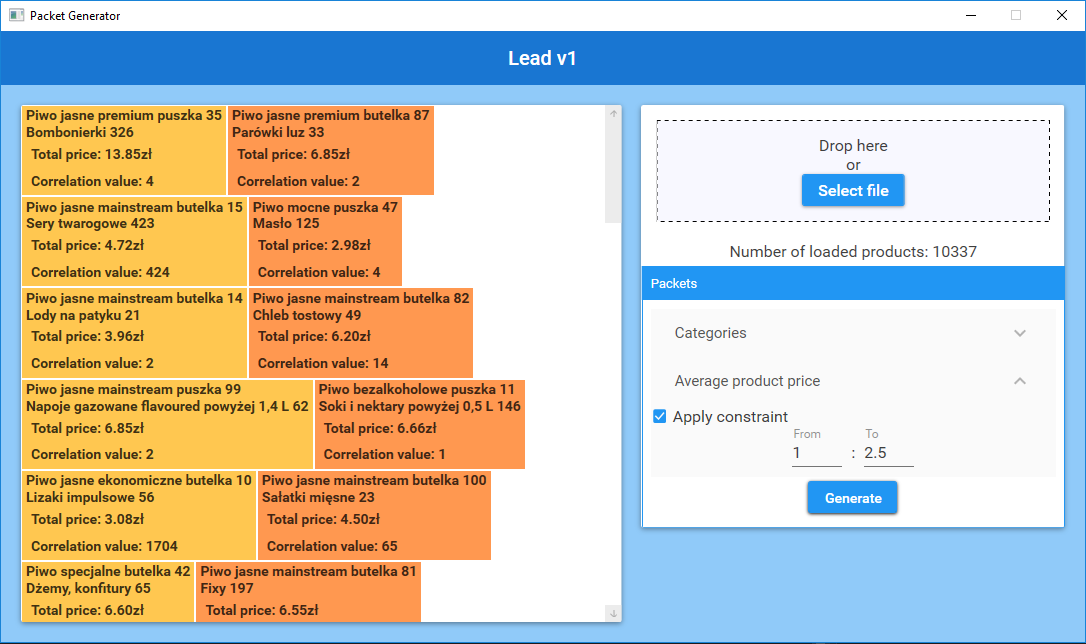
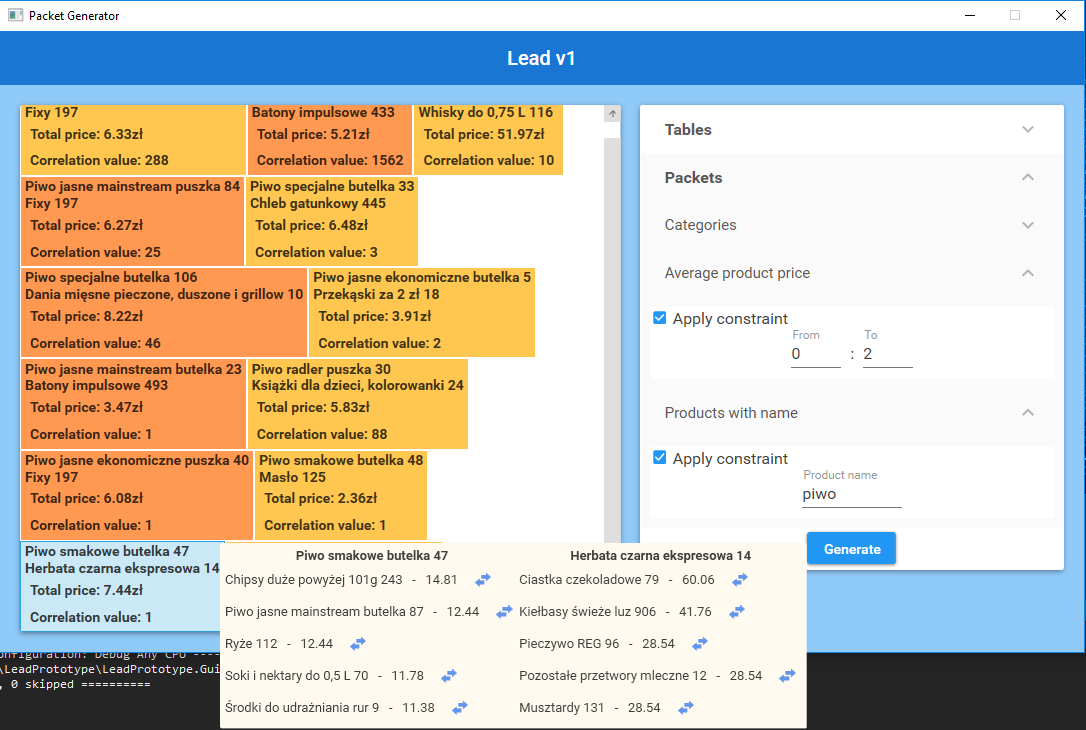
added product name filter + update readme

diff --git a/LeadPrototype.Gui/MainWindow.xaml b/LeadPrototype.Gui/MainWindow.xaml
@@ -41,7 +41,7 @@
             Mode="PrimaryDark"
             Padding="15"
             DockPanel.Dock="Top">
-            <TextBlock Style="{DynamicResource MaterialDesignTitleTextBlock}" Text="Lead v1"
+            <TextBlock Style="{DynamicResource MaterialDesignTitleTextBlock}" Text="Lead v1.2"
                        HorizontalAlignment="Center" />
         </materialDesign:ColorZone>
 
@@ -86,7 +86,7 @@
                                     <Popup StaysOpen="False" x:Name="Popup" HorizontalAlignment="Center"
                                                  VerticalAlignment="Center" Placement="Left"
                                             AllowsTransparency="True" PopupAnimation="Scroll">
-                                        <materialDesign:Card Padding="5">
+                                        <materialDesign:Card Padding="5" Background="FloralWhite">
                                             <materialDesign:Card.Resources>
                                                 <Style TargetType="TextBlock">
                                                     <Setter Property="FontSize" Value="14"/>
@@ -194,7 +194,7 @@
                                         <StackPanel VerticalAlignment="Center" HorizontalAlignment="Center">
                                             <TextBlock Text="Drop here" FontSize="16" HorizontalAlignment="Center" />
                                             <TextBlock Text="or" FontSize="16" HorizontalAlignment="Center" />
-                                            <Button Content="Select file" FontSize="16" HorizontalAlignment="Center"
+                                            <Button Content="Select files" FontSize="16" HorizontalAlignment="Center"
                                             Command="{Binding OpenFileCommand}" />
                                         </StackPanel>
                                     </Grid>
@@ -231,7 +231,7 @@
                           IsExpanded="{Binding IsExpanded,ElementName=TableExpander,Converter={StaticResource BoolInverseConverter}}">
                         <Expander.Header>
                             <TextBlock
-                                Text="LstPackets"
+                                Text="Packets"
                                 FontWeight="Bold" 
                                 FontSize="16">
                             </TextBlock>
@@ -273,6 +273,18 @@
                                             materialDesign:HintAssist.Hint="To"
                                             Text="{Binding PriceRange.To,Mode=TwoWay,StringFormat=0{0.0},Converter={StaticResource StringToDecimalConverter}}"
                                             Style="{StaticResource MaterialDesignFloatingHintTextBox}" Width="50"/>
+                                    </StackPanel>
+                                </StackPanel>
+                            </Expander>
+                            <Expander Header="Products with name">
+                                <StackPanel  Margin="10" Background="White">
+                                    <CheckBox Content="Apply constraint" IsChecked="{Binding ProductNameConstraint,Mode=TwoWay}"  FontSize="16"/>
+                                    <StackPanel Orientation="Horizontal" HorizontalAlignment="Center" IsEnabled="{Binding ProductNameConstraint}" Margin="0,0,0,10">
+                                        <TextBox
+                                            FontSize="16" 
+                                            materialDesign:HintAssist.Hint="Product name"
+                                            Text="{Binding ProductName,Mode=TwoWay}"
+                                            Style="{StaticResource MaterialDesignFloatingHintTextBox}" Width="100"/>
                                     </StackPanel>
                                 </StackPanel>
                             </Expander>

diff --git a/LeadPrototype.Gui/ViewModel/MainViewModel.cs b/LeadPrototype.Gui/ViewModel/MainViewModel.cs
@@ -19,15 +19,16 @@ namespace ReportGenerator.ViewModel
 {
     public class MainViewModel : ViewModelBase
     {
+        #region fields
+        private int substitutesCount = 5;
+        #endregion
 
-        #region properties
+        #region properties        
         public CorrelationTable CorrelationTable { get; set; }
         public SubstitutesTable SubstituesTable { get; set; }
         public List<Product> Products { get; set; }
-        public List<CategoryViewModel> Categories { get; set; }
         public ObservableCollection<FileViewModel> Files { get; set; }
         public ObservableCollection<Packet> Packets { get; set; }
-        public PriceRange PriceRange { get; set; }
         #endregion
 
         #region computed properties
@@ -38,7 +39,7 @@ namespace ReportGenerator.ViewModel
             set
             {
                 _selectedPacket = value;
-                RaisePropertyChanged("SelectedPacket");
+                RaisePropertyChanged(nameof(SelectedPacket));
             }
         }
         private Visibility _spinnerVisibility;
@@ -48,12 +49,13 @@ namespace ReportGenerator.ViewModel
             set
             {
                 _spinnerVisibility = value;
-                RaisePropertyChanged("SpinnerVisibility");
+                RaisePropertyChanged(nameof(SpinnerVisibility));
             }
         }
         #endregion
 
-        #region constraints
+        #region constraints 
+        public List<CategoryViewModel> Categories { get; set; }
         private bool _categoryConstraint;
         public bool CategoryConstraint
         {
@@ -61,18 +63,30 @@ namespace ReportGenerator.ViewModel
             set
             {
                 _categoryConstraint = value;
-                RaisePropertyChanged("CategoryConstraint");
+                RaisePropertyChanged(nameof(CategoryConstraint));
             }
         }
 
-        private bool _priceConstraint;
+        public PriceRange PriceRange { get; set; }
+        private bool _priceConstraint;  
         public bool PriceConstraint
         {
             get => _priceConstraint;
             set
             {
                 _priceConstraint = value;
-                RaisePropertyChanged("PriceConstraint");
+                RaisePropertyChanged(nameof(PriceConstraint));
+            }
+        }
+
+        public string ProductName { get; set; }
+        private bool _productNameConstraint;
+        public bool ProductNameConstraint {
+            get => _productNameConstraint;
+            set
+            {
+                _productNameConstraint = value; 
+                RaisePropertyChanged(nameof(ProductNameConstraint));
             }
         }
         #endregion
@@ -105,9 +119,9 @@ namespace ReportGenerator.ViewModel
         {
             var values = (object[])obj;
             var newProductId = (int)values[0];
-            var orginal = (PacketProduct) values[1];
+            var orginal = (PacketProduct)values[1];
             var newProduct = Products.First(p => p.Id == newProductId);
-            SelectedPacket.ChangeProduct(orginal.Product,newProduct);         
+            SelectedPacket.ChangeProduct(orginal.Product, newProduct);
         }
 
         private void GeneratePackets()
@@ -116,7 +130,7 @@ namespace ReportGenerator.ViewModel
                 .AddProducts(Products)
                 .AddCorrelationTable(CorrelationTable)
                 .AddSubstitutesTable(SubstituesTable)
-                .SetNumberOfSubstitutes(3);
+                .SetNumberOfSubstitutes(substitutesCount);
 
             if (CategoryConstraint)
             {
@@ -130,6 +144,11 @@ namespace ReportGenerator.ViewModel
                     p.AveragePrice >= PriceRange.From && p.AveragePrice <= PriceRange.To);
             }
 
+            if (ProductNameConstraint)
+            {
+                packetFactory.AddPacketConstraint(p => p.ProductName.ToLower().Contains(ProductName.ToLower()));
+            }
+
             try
             {
                 var packets = packetFactory.CreatePackets();
@@ -138,9 +157,8 @@ namespace ReportGenerator.ViewModel
             }
             catch (Exception e)
             {
-                Debug.WriteLine($"Something wrong: {e.InnerException}");
+                Debug.WriteLine($"cannot create packets: {e.InnerException}");
             }
-
         }
 
         private void FetchProductsAndCategories()

diff --git a/readme.md b/readme.md
@@ -1,2 +1,2 @@
-# Lead v1
+# Lead v1.2
 ![application view](app.PNG)
